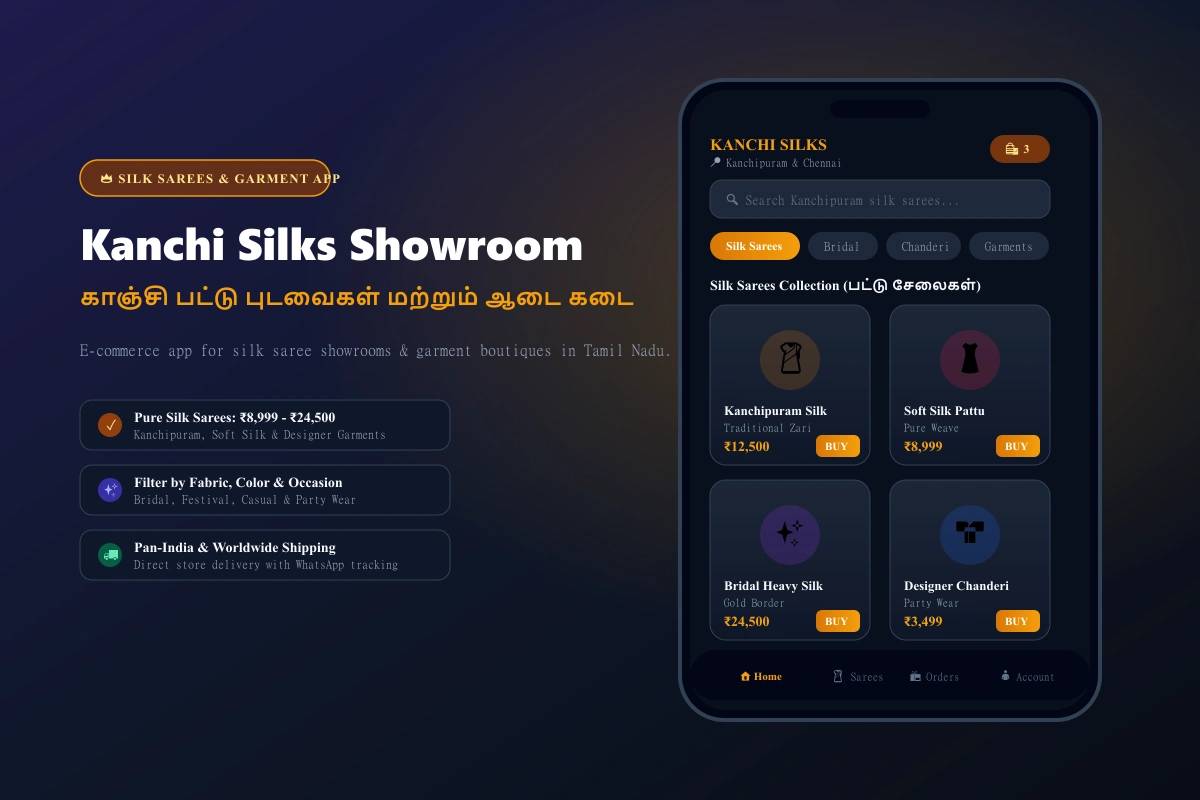
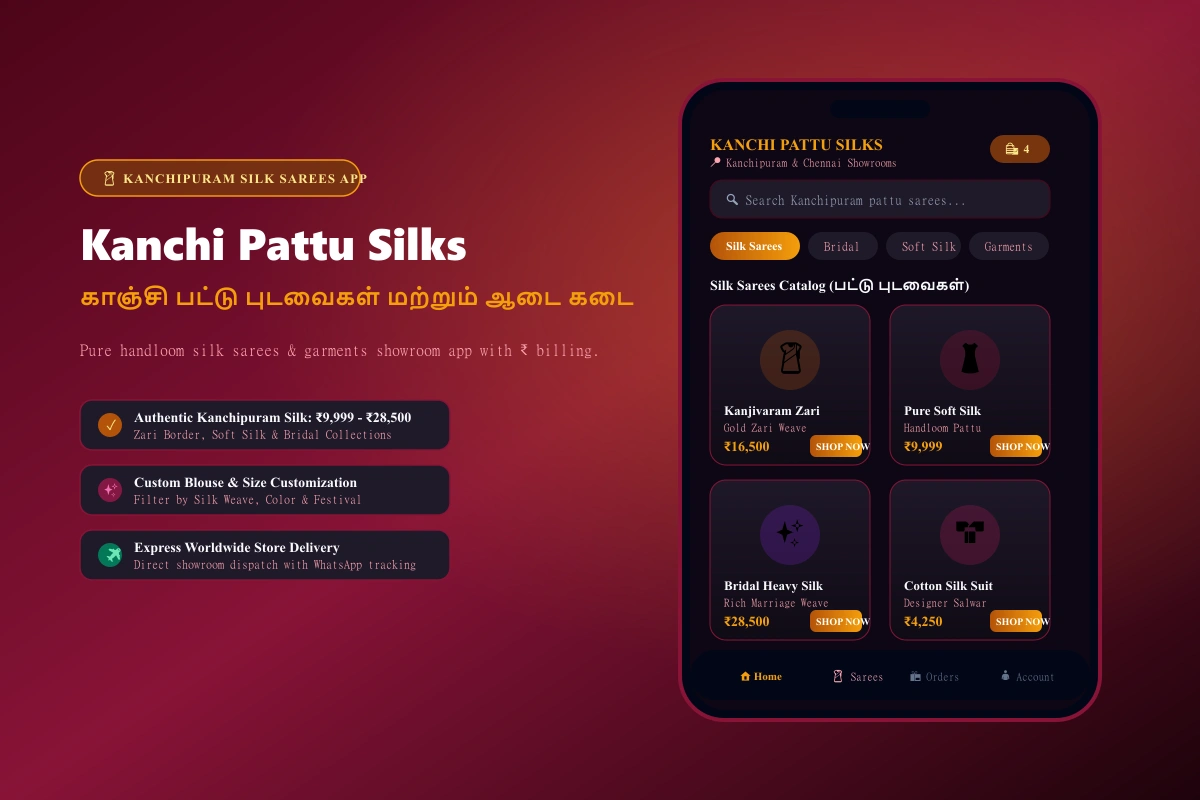
Replace textiles image with dedicated Kanchi Pattu Silk Sarees WebP app UI

diff --git a/scratch/generate_fresh_textiles.js b/scratch/generate_fresh_textiles.js
@@ -1,0 +1,168 @@
+const sharp = require('sharp');
+const fs = require('fs');
+
+const svg = `<svg width='1200' height='800' viewBox='0 0 1200 800' xmlns='http://www.w3.org/2000/svg'>
+  <defs>
+    <linearGradient id='bgSaree' x1='0%' y1='0%' x2='100%' y2='100%'>
+      <stop offset='0%' stop-color='#4C0519' />
+      <stop offset='50%' stop-color='#881337' />
+      <stop offset='100%' stop-color='#1E030B' />
+    </linearGradient>
+    <radialGradient id='goldGlow' cx='70%' cy='35%' r='50%'>
+      <stop offset='0%' stop-color='#F59E0B' stop-opacity='0.3' />
+      <stop offset='100%' stop-color='#F59E0B' stop-opacity='0' />
+    </radialGradient>
+    <linearGradient id='goldBtn' x1='0%' y1='0%' x2='100%' y2='0%'>
+      <stop offset='0%' stop-color='#B45309' />
+      <stop offset='100%' stop-color='#F59E0B' />
+    </linearGradient>
+    <linearGradient id='cardGrad' x1='0%' y1='0%' x2='0%' y2='100%'>
+      <stop offset='0%' stop-color='#1F1929' stop-opacity='0.95' />
+      <stop offset='100%' stop-color='#0F0B15' stop-opacity='0.95' />
+    </linearGradient>
+  </defs>
+
+  <!-- Background Layer -->
+  <rect width='1200' height='800' fill='url(#bgSaree)' />
+  <rect width='1200' height='800' fill='url(#goldGlow)' />
+
+  <!-- Left Side: Tamil Nadu Silk Showroom Branding -->
+  <g transform='translate(80, 160)'>
+    <rect width='280' height='36' rx='18' fill='#78350F' fill-opacity='0.85' stroke='#F59E0B' stroke-width='1.5' />
+    <text x='20' y='23' font-family='sans-serif' font-size='13' font-weight='bold' fill='#FDE68A' letter-spacing='1'>
+      🥻 KANCHIPURAM SILK SAREES APP
+    </text>
+
+    <text x='0' y='100' font-family='sans-serif' font-size='44' font-weight='900' fill='#FFFFFF'>
+      Kanchi Pattu Silks
+    </text>
+    <text x='0' y='145' font-family='sans-serif' font-size='22' font-weight='700' fill='#F59E0B'>
+      காஞ்சி பட்டு புடவைகள் மற்றும் ஆடை கடை
+    </text>
+
+    <text x='0' y='195' font-family='sans-serif' font-size='16' fill='#FDA4AF'>
+      Pure handloom silk sarees &amp; garments showroom app with ₹ billing.
+    </text>
+
+    <!-- Feature Badges -->
+    <g transform='translate(0, 240)'>
+      <rect x='0' y='0' width='370' height='50' rx='12' fill='#1F1929' stroke='#881337' stroke-width='1.5' />
+      <circle cx='30' cy='25' r='12' fill='#B45309' />
+      <text x='26' y='30' font-family='sans-serif' font-size='14' fill='#FDE68A'>✓</text>
+      <text x='54' y='22' font-family='sans-serif' font-size='14' font-weight='bold' fill='#F8FAFC'>Authentic Kanchipuram Silk: ₹9,999 - ₹28,500</text>
+      <text x='54' y='38' font-family='sans-serif' font-size='12' fill='#FDA4AF'>Zari Border, Soft Silk &amp; Bridal Collections</text>
+
+      <rect x='0' y='65' width='370' height='50' rx='12' fill='#1F1929' stroke='#881337' stroke-width='1.5' />
+      <circle cx='30' cy='90' r='12' fill='#831843' />
+      <text x='24' y='95' font-family='sans-serif' font-size='14' fill='#F472B6'>✨</text>
+      <text x='54' y='87' font-family='sans-serif' font-size='14' font-weight='bold' fill='#F8FAFC'>Custom Blouse &amp; Size Customization</text>
+      <text x='54' y='103' font-family='sans-serif' font-size='12' fill='#FDA4AF'>Filter by Silk Weave, Color &amp; Festival</text>
+
+      <rect x='0' y='130' width='370' height='50' rx='12' fill='#1F1929' stroke='#881337' stroke-width='1.5' />
+      <circle cx='30' cy='155' r='12' fill='#047857' />
+      <text x='24' y='160' font-family='sans-serif' font-size='14' fill='#6EE7B7'>✈</text>
+      <text x='54' y='152' font-family='sans-serif' font-size='14' font-weight='bold' fill='#F8FAFC'>Express Worldwide Store Delivery</text>
+      <text x='54' y='168' font-family='sans-serif' font-size='12' fill='#FDA4AF'>Direct showroom dispatch with WhatsApp tracking</text>
+    </g>
+  </g>
+
+  <!-- Right Side: Phone Mockup Frame -->
+  <g transform='translate(680, 80)'>
+    <rect width='420' height='640' rx='44' fill='#020617' stroke='#881337' stroke-width='4' />
+    <rect x='10' y='10' width='400' height='620' rx='36' fill='#0D0714' />
+    <rect x='150' y='20' width='100' height='18' rx='9' fill='#020617' />
+
+    <!-- App Header -->
+    <g transform='translate(30, 50)'>
+      <text x='0' y='20' font-family='sans-serif' font-size='16' font-weight='bold' fill='#F59E0B'>KANCHI PATTU SILKS</text>
+      <text x='0' y='36' font-family='sans-serif' font-size='11' fill='#FDA4AF'>📍 Kanchipuram &amp; Chennai Showrooms</text>
+      <rect x='280' y='5' width='60' height='28' rx='14' fill='#78350F' />
+      <text x='294' y='23' font-family='sans-serif' font-size='12' font-weight='bold' fill='#FDE68A'>🛍 4</text>
+    </g>
+
+    <!-- Search Bar -->
+    <rect x='30' y='100' width='340' height='38' rx='12' fill='#1F1929' stroke='#4C0519' stroke-width='1' />
+    <text x='46' y='124' font-family='sans-serif' font-size='13' fill='#94A3B8'>🔍 Search Kanchipuram pattu sarees...</text>
+
+    <!-- Category Pills -->
+    <g transform='translate(30, 152)'>
+      <rect x='0' y='0' width='90' height='28' rx='14' fill='url(#goldBtn)' />
+      <text x='16' y='18' font-family='sans-serif' font-size='12' font-weight='bold' fill='#FFFFFF'>Silk Sarees</text>
+
+      <rect x='98' y='0' width='70' height='28' rx='14' fill='#1F1929' />
+      <text x='114' y='18' font-family='sans-serif' font-size='12' fill='#FDA4AF'>Bridal</text>
+
+      <rect x='176' y='0' width='75' height='28' rx='14' fill='#1F1929' />
+      <text x='192' y='18' font-family='sans-serif' font-size='12' fill='#FDA4AF'>Soft Silk</text>
+
+      <rect x='259' y='0' width='80' height='28' rx='14' fill='#1F1929' />
+      <text x='275' y='18' font-family='sans-serif' font-size='12' fill='#FDA4AF'>Garments</text>
+    </g>
+
+    <text x='30' y='210' font-family='sans-serif' font-size='14' font-weight='bold' fill='#F8FAFC'>Silk Sarees Catalog (பட்டு புடவைகள்)</text>
+
+    <!-- 4 Product Cards Grid -->
+    <g transform='translate(30, 225)'>
+      <rect width='160' height='160' rx='16' fill='url(#cardGrad)' stroke='#881337' stroke-width='1' />
+      <circle cx='80' cy='55' r='30' fill='#B45309' fill-opacity='0.25' />
+      <text x='80' y='63' font-family='sans-serif' font-size='28' text-anchor='middle'>🥻</text>
+      <text x='14' y='110' font-family='sans-serif' font-size='13' font-weight='bold' fill='#F8FAFC'>Kanjivaram Zari</text>
+      <text x='14' y='126' font-family='sans-serif' font-size='11' fill='#FDA4AF'>Gold Zari Weave</text>
+      <text x='14' y='146' font-family='sans-serif' font-size='14' font-weight='bold' fill='#F59E0B'>₹16,500</text>
+      <rect x='100' y='130' width='52' height='22' rx='6' fill='url(#goldBtn)' />
+      <text x='106' y='145' font-family='sans-serif' font-size='10' font-weight='bold' fill='#FFFFFF'>SHOP NOW</text>
+    </g>
+
+    <g transform='translate(210, 225)'>
+      <rect width='160' height='160' rx='16' fill='url(#cardGrad)' stroke='#881337' stroke-width='1' />
+      <circle cx='80' cy='55' r='30' fill='#9F1239' fill-opacity='0.25' />
+      <text x='80' y='63' font-family='sans-serif' font-size='28' text-anchor='middle'>👗</text>
+      <text x='14' y='110' font-family='sans-serif' font-size='13' font-weight='bold' fill='#F8FAFC'>Pure Soft Silk</text>
+      <text x='14' y='126' font-family='sans-serif' font-size='11' fill='#FDA4AF'>Handloom Pattu</text>
+      <text x='14' y='146' font-family='sans-serif' font-size='14' font-weight='bold' fill='#F59E0B'>₹9,999</text>
+      <rect x='100' y='130' width='52' height='22' rx='6' fill='url(#goldBtn)' />
+      <text x='106' y='145' font-family='sans-serif' font-size='10' font-weight='bold' fill='#FFFFFF'>SHOP NOW</text>
+    </g>
+
+    <g transform='translate(30, 400)'>
+      <rect width='160' height='160' rx='16' fill='url(#cardGrad)' stroke='#881337' stroke-width='1' />
+      <circle cx='80' cy='55' r='30' fill='#7E22CE' fill-opacity='0.25' />
+      <text x='80' y='63' font-family='sans-serif' font-size='28' text-anchor='middle'>✨</text>
+      <text x='14' y='110' font-family='sans-serif' font-size='13' font-weight='bold' fill='#F8FAFC'>Bridal Heavy Silk</text>
+      <text x='14' y='126' font-family='sans-serif' font-size='11' fill='#FDA4AF'>Rich Marriage Weave</text>
+      <text x='14' y='146' font-family='sans-serif' font-size='14' font-weight='bold' fill='#F59E0B'>₹28,500</text>
+      <rect x='100' y='130' width='52' height='22' rx='6' fill='url(#goldBtn)' />
+      <text x='106' y='145' font-family='sans-serif' font-size='10' font-weight='bold' fill='#FFFFFF'>SHOP NOW</text>
+    </g>
+
+    <g transform='translate(210, 400)'>
+      <rect width='160' height='160' rx='16' fill='url(#cardGrad)' stroke='#881337' stroke-width='1' />
+      <circle cx='80' cy='55' r='30' fill='#BE185D' fill-opacity='0.25' />
+      <text x='80' y='63' font-family='sans-serif' font-size='28' text-anchor='middle'>👘</text>
+      <text x='14' y='110' font-family='sans-serif' font-size='13' font-weight='bold' fill='#F8FAFC'>Cotton Silk Suit</text>
+      <text x='14' y='126' font-family='sans-serif' font-size='11' fill='#FDA4AF'>Designer Salwar</text>
+      <text x='14' y='146' font-family='sans-serif' font-size='14' font-weight='bold' fill='#F59E0B'>₹4,250</text>
+      <rect x='100' y='130' width='52' height='22' rx='6' fill='url(#goldBtn)' />
+      <text x='106' y='145' font-family='sans-serif' font-size='10' font-weight='bold' fill='#FFFFFF'>SHOP NOW</text>
+    </g>
+
+    <!-- Bottom Navigation Bar -->
+    <rect x='10' y='570' width='400' height='50' rx='25' fill='#020617' />
+    <text x='60' y='600' font-family='sans-serif' font-size='11' font-weight='bold' fill='#F59E0B'>🏠 Home</text>
+    <text x='150' y='600' font-family='sans-serif' font-size='11' fill='#FDA4AF'>🥻 Sarees</text>
+    <text x='230' y='600' font-family='sans-serif' font-size='11' fill='#64748B'>📦 Orders</text>
+    <text x='320' y='600' font-family='sans-serif' font-size='11' fill='#64748B'>👤 Account</text>
+  </g>
+</svg>`;
+
+const outputPath = 'e:\\_downloads\\blue-tech\\public\\images\\industry-textiles.webp';
+
+sharp(Buffer.from(svg))
+  .webp({ quality: 95 })
+  .toFile(outputPath)
+  .then(info => {
+    console.log('SUCCESSFULLY_RENDERED_FRESH_TEXTILES_WEBP:', info);
+  })
+  .catch(err => {
+    console.error('ERROR_RENDERING_TEXTILES_WEBP:', err);
+  });
